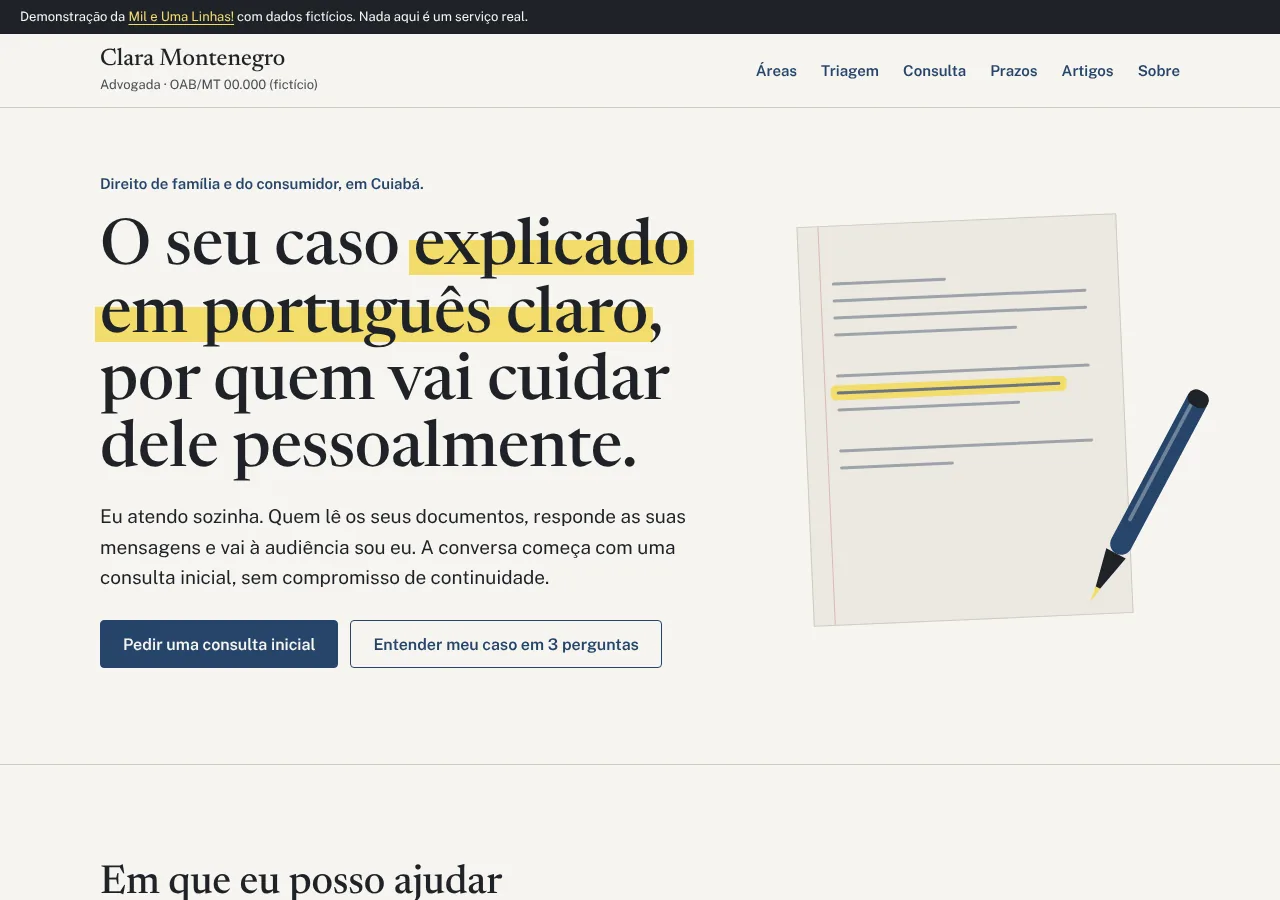
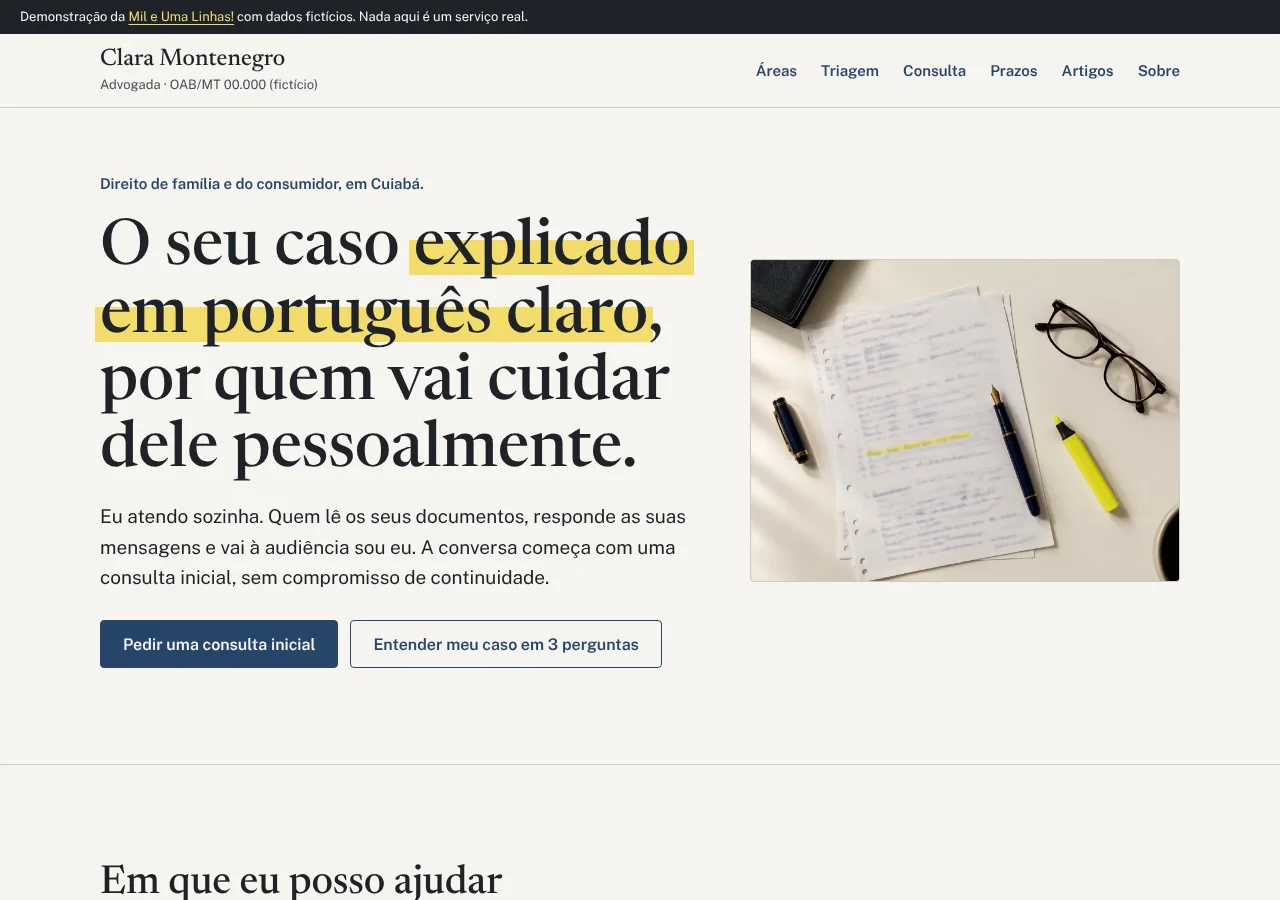
Troca o hero desenhado por foto gerada por IA
Substitui a folha de papel desenhada em CSS/SVG (com a caneta) por uma
foto de uma mesa de trabalho com folhas anotadas, caneta-tinteiro azul,
óculos e marca-texto (img/hero.webp, 1440x1080, gerada por IA no Canva
e ilustrativa).

- index.html: img.hero-foto com width/height, alt descritivo e
  fetchpriority=high dentro de um contêiner 4:3; CSP mantida.
- css/estilo.css: contêiner com aspect-ratio 4/3, object-fit cover,
  borda de 1 px na cor Linha, cantos de 4 px e cor média da foto como
  fundo enquanto carrega; no celular a foto abre a página e o texto vem
  logo abaixo; removidos os estilos da folha pautada e da caneta; a
  abertura segue sendo o grifo do título, e a foto ganha só um fade
  (desligado com reduced-motion).
- tests/site.cjs: confere que a foto carregou, tem alt, 4:3, cabe na
  tela e que nenhum texto do hero fica por cima dela; a porta passa a
  aceitar a variável PORTA.
- docs/identidade.md e README.md: descrevem a foto, o aviso de que é
  gerada por IA e o prompt resumido.
- docs/capa-desktop.webp e docs/capa-celular.webp refeitas.

Claude-Session: https://claude.ai/code/session_015DVsuVad392kn1wvAjF541

Changed region(s): [[0.5625, 0.28, 0.9688, 0.6844]]

diff --git a/css/estilo.css b/css/estilo.css
@@ -215,55 +215,22 @@ a:hover { color: var(--tinta-forte); }
 .hero-apoio { font-size: 19px; max-width: 34em; }
 .hero-acoes { display: flex; gap: 12px; flex-wrap: wrap; margin-top: 28px; }
 
-.hero-figura { position: relative; min-height: 380px; display: flex; justify-content: center; }
-.folha {
-  width: min(100%, 320px);
-  min-height: 400px;
-  background: var(--papel-escuro);
+.hero-figura {
+  aspect-ratio: 4 / 3;
   border: 1px solid var(--linha);
-  padding: 56px 32px 40px;
-  transform: rotate(-2.5deg);
-  display: flex;
-  flex-direction: column;
-  gap: 14px;
-  position: relative;
+  border-radius: 4px;
+  overflow: hidden;
+  background: #C6BFB4; /* média da foto: aparece enquanto ela carrega */
 }
-.folha::before {
-  content: "";
-  position: absolute;
-  left: 20px;
-  top: 0;
-  bottom: 0;
-  width: 1px;
-  background: #D9B9B4;
-}
-.folha-linha { display: block; height: 3px; background: #9DA3AC; border-radius: 2px; width: 100%; }
-.folha-linha-curta { width: 45%; }
-.folha-linha-media { width: 72%; }
-.folha-linha-grifada {
-  background: #6E7580;
-  box-shadow: 0 0 0 6px var(--marca-texto);
-  width: 88%;
-}
-.folha-espaco { display: block; height: 10px; }
-.caneta {
-  position: absolute;
-  right: 4%;
-  bottom: -24px;
-  transform: rotate(28deg);
-  width: 44px;
-  height: auto;
+.hero-foto { display: block; width: 100%; height: 100%; object-fit: cover; }
+@media (prefers-reduced-motion: no-preference) {
+  .hero-foto { animation: foto-entra 800ms ease-out both; }
+  @keyframes foto-entra { from { opacity: 0; } to { opacity: 1; } }
 }
 
 @media (max-width: 900px) {
-  .hero-grade { grid-template-columns: 1fr; gap: 40px; }
-  .hero-figura { min-height: 0; justify-content: flex-start; }
-  .folha { min-height: 300px; width: min(100%, 280px); padding: 40px 24px 32px; }
-  .caneta { right: auto; left: 240px; bottom: -8px; }
-}
-@media (max-width: 420px) {
-  .caneta { left: auto; right: 0; bottom: -16px; width: 36px; }
-  .folha { width: min(100%, 240px); }
+  .hero-grade { grid-template-columns: 1fr; gap: 32px; }
+  .hero-figura { order: -1; } /* no celular a foto abre a página, o texto vem logo abaixo */
 }
 
 /* Seções */

diff --git a/index.html b/index.html
@@ -54,27 +54,8 @@
           </div>
         </div>
 
-        <div class="hero-figura" aria-hidden="true">
-          <div class="folha">
-            <span class="folha-linha folha-linha-curta"></span>
-            <span class="folha-linha"></span>
-            <span class="folha-linha"></span>
-            <span class="folha-linha folha-linha-media"></span>
-            <span class="folha-espaco"></span>
-            <span class="folha-linha"></span>
-            <span class="folha-linha folha-linha-grifada"></span>
-            <span class="folha-linha folha-linha-media"></span>
-            <span class="folha-espaco"></span>
-            <span class="folha-linha"></span>
-            <span class="folha-linha folha-linha-curta"></span>
-          </div>
-          <svg class="caneta" viewBox="0 0 48 300" width="48" height="300" focusable="false">
-            <rect x="12" y="8" width="24" height="200" rx="12" fill="#27456B"/>
-            <rect x="18" y="20" width="4" height="150" rx="2" fill="#F6F4EF" opacity=".35"/>
-            <path d="M12 208 L24 262 L36 208 Z" fill="#1E2228"/>
-            <path d="M21 250 L24 268 L27 250 Z" fill="#F2DC6B"/>
-            <rect x="12" y="8" width="24" height="18" rx="9" fill="#1E2228"/>
-          </svg>
+        <div class="hero-figura">
+          <img class="hero-foto" src="img/hero.webp" width="1440" height="1080" alt="Mesa vista de cima com folhas pautadas cheias de anotações e um trecho marcado em amarelo, uma caneta-tinteiro azul-marinho sobre elas, a tampa da caneta ao lado, óculos de armação escura, um marca-texto amarelo e um caderno de capa preta no canto." fetchpriority="high">
         </div>
       </div>
     </section>

diff --git a/docs/identidade.md b/docs/identidade.md
@@ -59,9 +59,19 @@ Regra de peso: um peso por família por tela além do regular. Nada de negrito d
 
 ## Imagem forte
 
-O hero é uma **folha de papel desenhada em CSS e SVG**: um bloco de Papel escuro, levemente girado, com linhas pautadas e três parágrafos de "texto" representados por traços (nenhum texto falso em imagem). Sobre ele, um trecho real do posicionamento aparece grifado com o marca-texto amarelo, e uma caneta de tinta azul em SVG repousa no canto. A mensagem é: aqui alguém lê o seu caso de verdade, linha por linha.
+O hero é uma **foto gerada por IA (Canva)**, ilustrativa: uma mesa de trabalho vista de cima, em tom de papel, com folhas pautadas cheias de anotações (desfocadas de propósito, para não haver texto falso legível), uma caneta-tinteiro azul-marinho com a tampa ao lado, óculos de armação escura, um marca-texto amarelo e um caderno preto no canto. Tinta azul, papel e marca-texto são exatamente os três materiais da identidade, e a mensagem continua a mesma: aqui alguém lê o seu caso de verdade, linha por linha. Não há pessoas.
 
-Fora do hero, nenhuma imagem decorativa. Os ícones das áreas são traços simples em SVG (uma casa com duas pessoas, uma nota fiscal), em tinta azul, com `aria-hidden`.
+O contêiner tem proporção fixa de 4:3, borda de 1 px na cor Linha e cantos de 4 px, como os campos e botões do site. Enquanto a foto carrega, ele mostra a cor média dela.
+
+O grifo amarelo do título continua sendo o acento oficial da tela e o único movimento da abertura; o marca-texto da foto apenas ecoa essa cor. Fora do hero, nenhuma imagem decorativa. Os ícones das áreas são traços simples em SVG (uma casa com duas pessoas, uma nota fiscal), em tinta azul, com `aria-hidden`.
+
+### Foto do hero
+
+- **Arquivo**: `img/hero.webp`, 1440 x 1080 px, proporção 4:3.
+- **Origem**: gerada por IA no Canva. O README e este estudo avisam que é ilustrativa.
+- **Prompt resumido**: "Mesa de trabalho vista de cima, superfície em tom de papel marfim. Folhas pautadas com anotações manuscritas desfocadas, uma caneta-tinteiro azul-marinho com detalhes dourados sobre elas, a tampa da caneta ao lado, óculos de armação escura, um marca-texto amarelo e um caderno de capa preta no canto. Luz natural suave de janela, sombras longas e macias. Estilo editorial de site premium, sem texto legível, sem pessoas, proporção 4:3."
+- **Texto alternativo**: descreve a mesa, as folhas, a caneta, os óculos, o marca-texto e o caderno.
+- **Texto do hero**: fica ao lado da foto no computador e abaixo dela no celular, nunca por cima. O contraste do texto é o da página (Grafite sobre Papel) e não depende da foto.
 
 ## Movimento
 

diff --git a/README.md b/README.md
@@ -51,7 +51,7 @@ O estudo completo está em [`docs/identidade.md`](docs/identidade.md). O resumo:
 - **Ideia:** a mesa de trabalho de uma pessoa que lê e anota, não um escritório de mármore. Papel, caneta de tinta azul e um marca-texto amarelo.
 - **Paleta:** Papel `#F6F4EF` (fundo), Papel escuro `#ECE9E1` (blocos de apoio), Grafite `#1E2228` (texto), Tinta azul `#27456B` (tudo que é clicável), Marca-texto `#F2DC6B` (um grifo por tela, sempre atrás de texto), Linha `#CFCBC1` (bordas), Verde `#2F6B4F` (confirmação). Sem gradiente e sem sombra.
 - **Fontes:** Newsreader (serifa de leitura, títulos) e Public Sans (sans clara, corpo e formulários). As duas são SIL OFL e estão na pasta `fonts/` com as licenças. Nenhuma fonte vem de fora.
-- **Imagem forte:** uma folha de papel desenhada em CSS, com linhas pautadas, um trecho grifado e uma caneta em SVG. Nenhuma foto.
+- **Imagem forte:** uma foto de uma mesa de trabalho vista de cima, com folhas anotadas, caneta-tinteiro azul, óculos e marca-texto (`img/hero.webp`). **A foto foi gerada por IA no Canva e é só ilustrativa**: a mesa e as anotações não existem. O texto das folhas está desfocado de propósito.
 - **Movimento:** só um, na abertura: o grifo amarelo "passa" sobre o trecho do título. Com `prefers-reduced-motion`, ele já aparece pronto.
 
 ## Como funciona por dentro
@@ -69,7 +69,7 @@ O site é um conjunto de arquivos estáticos que o navegador baixa e executa soz
 - `Content-Security-Policy` por meta tag: `default-src 'self'`, `connect-src 'none'`, sem script ou estilo inline.
 - Acessibilidade: contraste AA em todas as combinações (medido), foco visível de 3px, `fieldset` e `legend` nos formulários, `aria-pressed` nos dias e horários, `aria-live` nos resultados, link "Pular para o conteúdo", `lang="pt-BR"`, `prefers-reduced-motion` respeitado.
 - Celular primeiro: uma coluna até 760px, menu recolhido, botões com 44px ou mais de altura, sem rolagem horizontal em 320px.
-- Arquivos: `index.html` (página única com âncoras), `404.html` (caminhos absolutos `/advogado/`), `css/estilo.css`, `js/app.js`, `fonts/`, `favicon.svg`, `robots.txt`, `sitemap.xml`, `google20db0e080e71c701.html`, `docs/` (identidade, vistoria e capturas), `tests/site.cjs`.
+- Arquivos: `index.html` (página única com âncoras), `404.html` (caminhos absolutos `/advogado/`), `css/estilo.css`, `js/app.js`, `fonts/`, `favicon.svg`, `img/hero.webp` (foto da abertura), `robots.txt`, `sitemap.xml`, `google20db0e080e71c701.html`, `docs/` (identidade, vistoria e capturas), `tests/site.cjs`.
 
 ## Como rodar no seu computador
 
